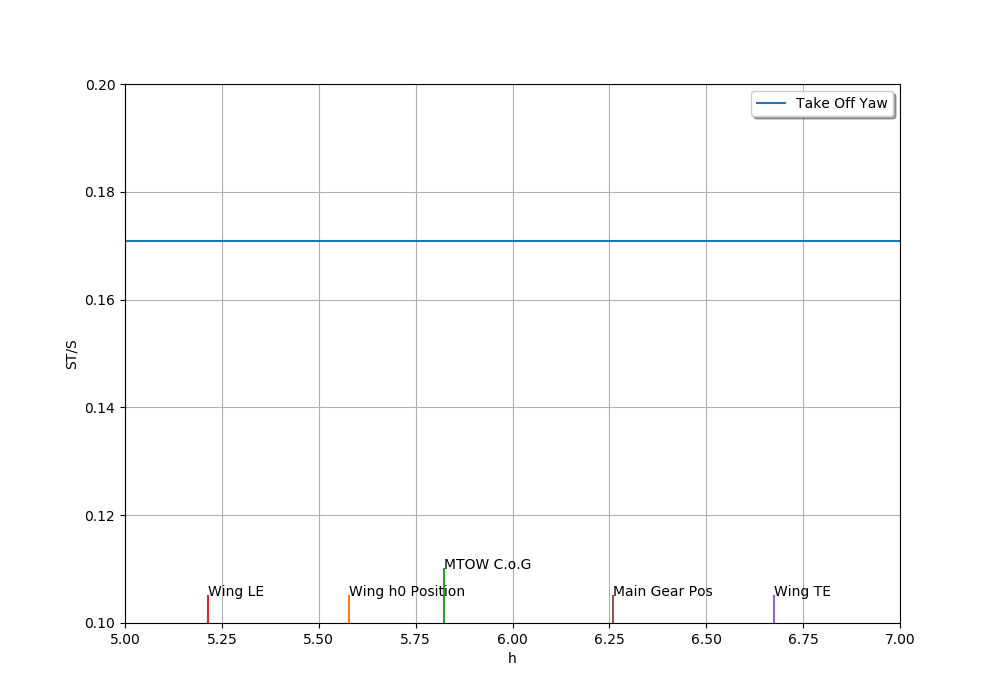
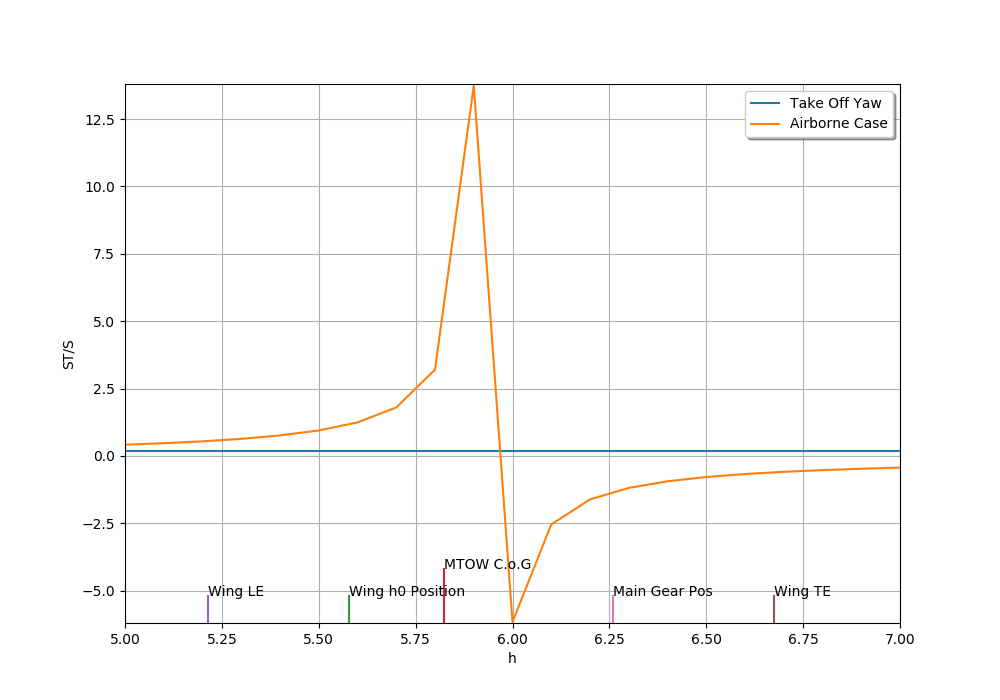
Add debugging to airborne

diff --git a/finSizing.py b/finSizing.py
@@ -97,10 +97,16 @@ def airborne_combined(h):
         eq_d = dcyV_db * lvtp
         eq_e = lvtp * eq_b
         eq_f = (dcyV_db * eq_e) - (eq_d * eq_b)
+        print("f: " + str(eq_f))
         eq_g = (eq_b * eq_a) + (eq_e * dcyWBN_db) - (eq_c * dcyV_db) - (eq_d * cl_vmca * max_bank_angle)
+        print("g: " + str(eq_g))
         eq_h = (cl_vmca * eq_a * max_bank_angle)-(eq_c * dcyWBN_db)
-        eq_quad = [eq_f, eq_g, eq_h]
-        result.append(max(np.roots(eq_quad)))
+        print("h: " + str(eq_h))
+        eq_quad = np.poly1d([eq_f, eq_g, eq_h])
+        roots = eq_quad.r
+        print(roots)
+        print(eq_quad.c)
+        result.append(max(roots))
     return result
 
 
